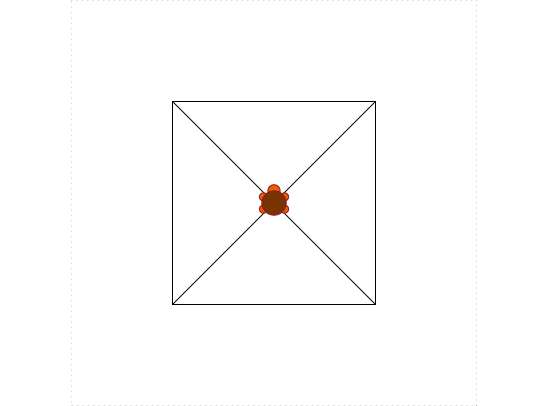
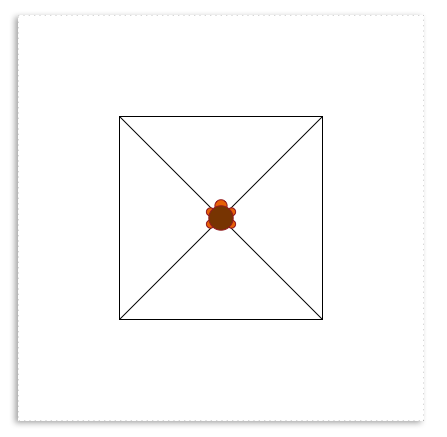
Built site for gh-pages

Changed region(s): [[0.2617, 0.2365, 0.7271, 0.7685], [0.0291, 0.0296, 0.9597, 0.9754]]

diff --git a/hw/2-functions-packages.html b/hw/2-functions-packages.html
@@ -428,7 +428,7 @@ code span.wa { color: #60a0b0; font-weight: bold; font-style: italic; } /* Warni
 <li>Using what you’ve learned about how to manipulate your turtle, write <strong>two different solutions</strong> for producing the following image (hint: the length of one side of the square is <code>50</code> units):</li>
 </ol>
 <center>
-<img src="../images/turtle_cross_box.png" width="456">
+<img src="../images/turtle_cross_box.png" width="600">
 </center>
 </section>
 <section id="read-and-reflect-solo-10" class="level3">
